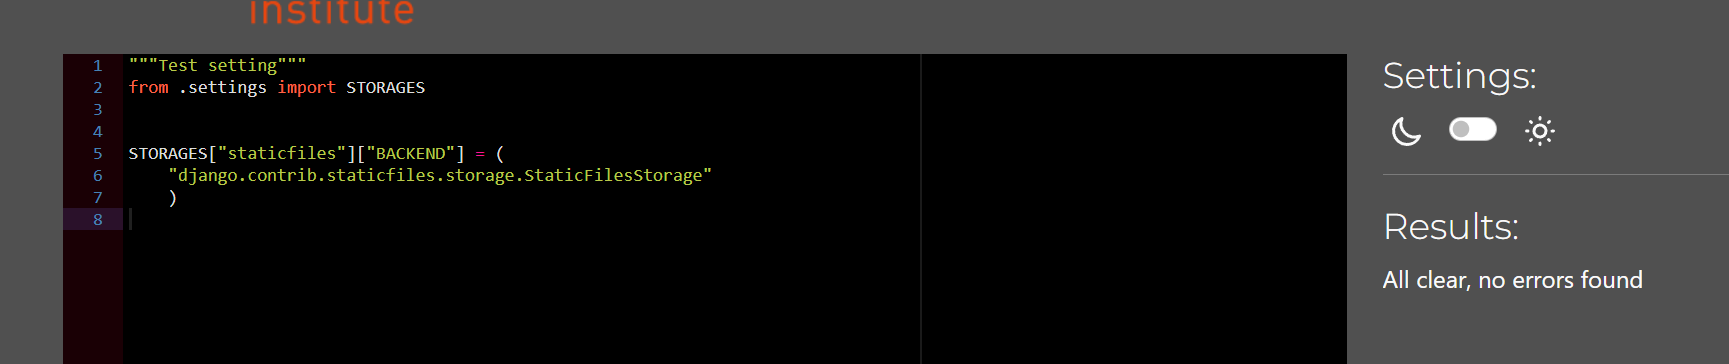
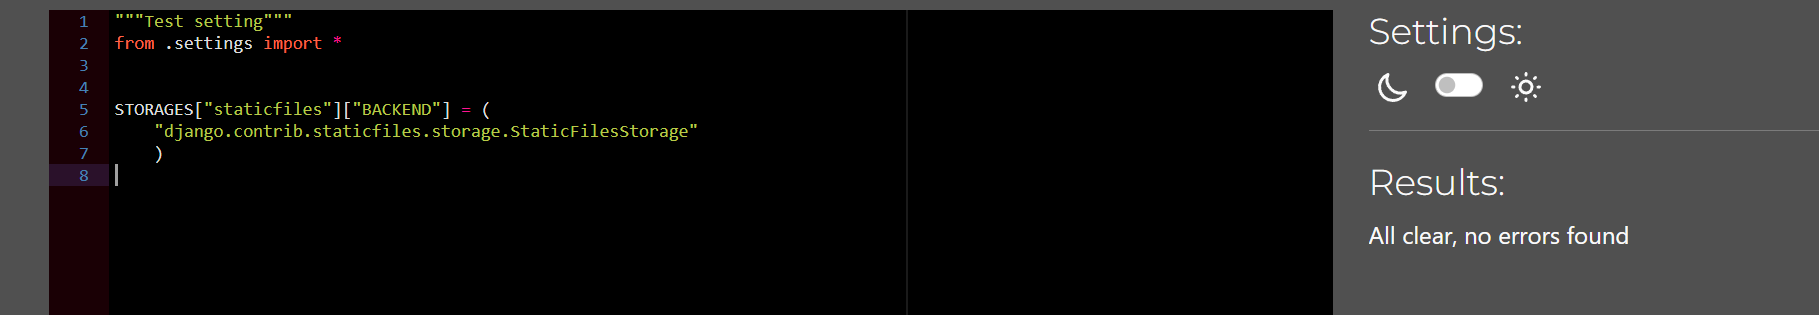
Fix settings_test import

Changed region(s): [[0.0, 0.0, 1.0, 1.0]]

diff --git a/chaptr/settings_test.py b/chaptr/settings_test.py
@@ -1,5 +1,5 @@
 """Test setting"""
-from .settings import STORAGES
+from .settings import *
 
 
 STORAGES["staticfiles"]["BACKEND"] = (
